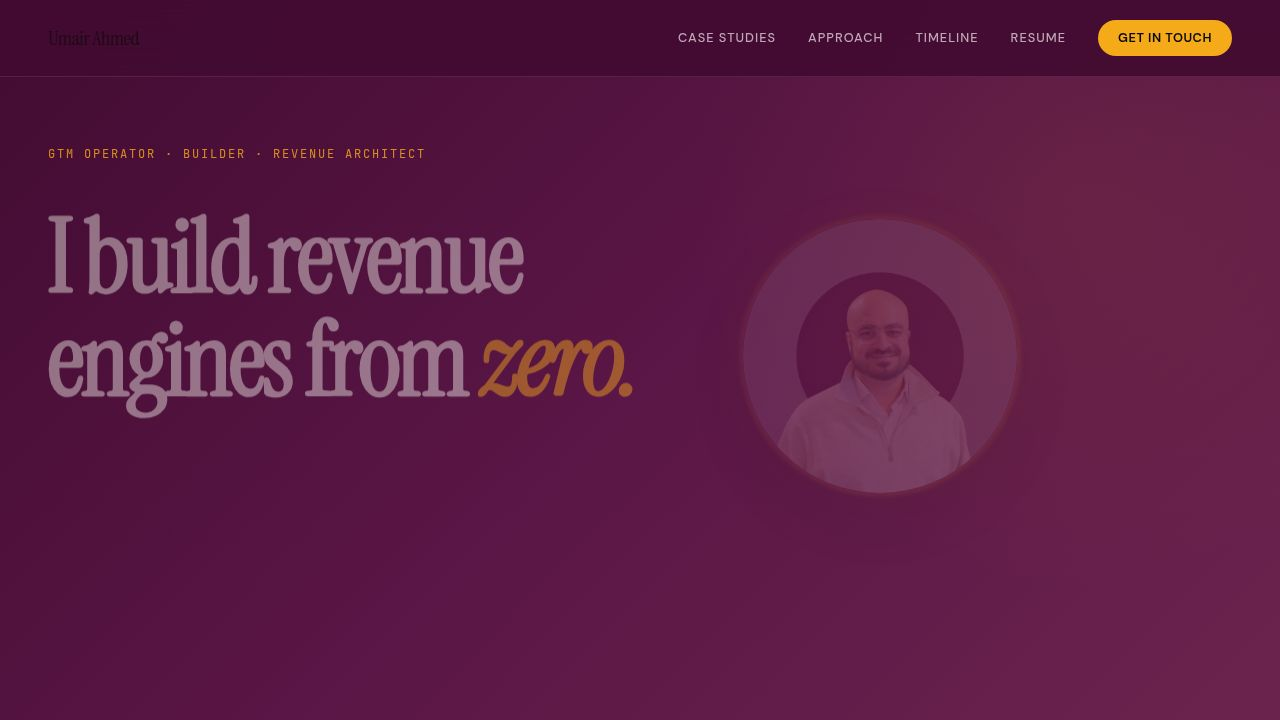
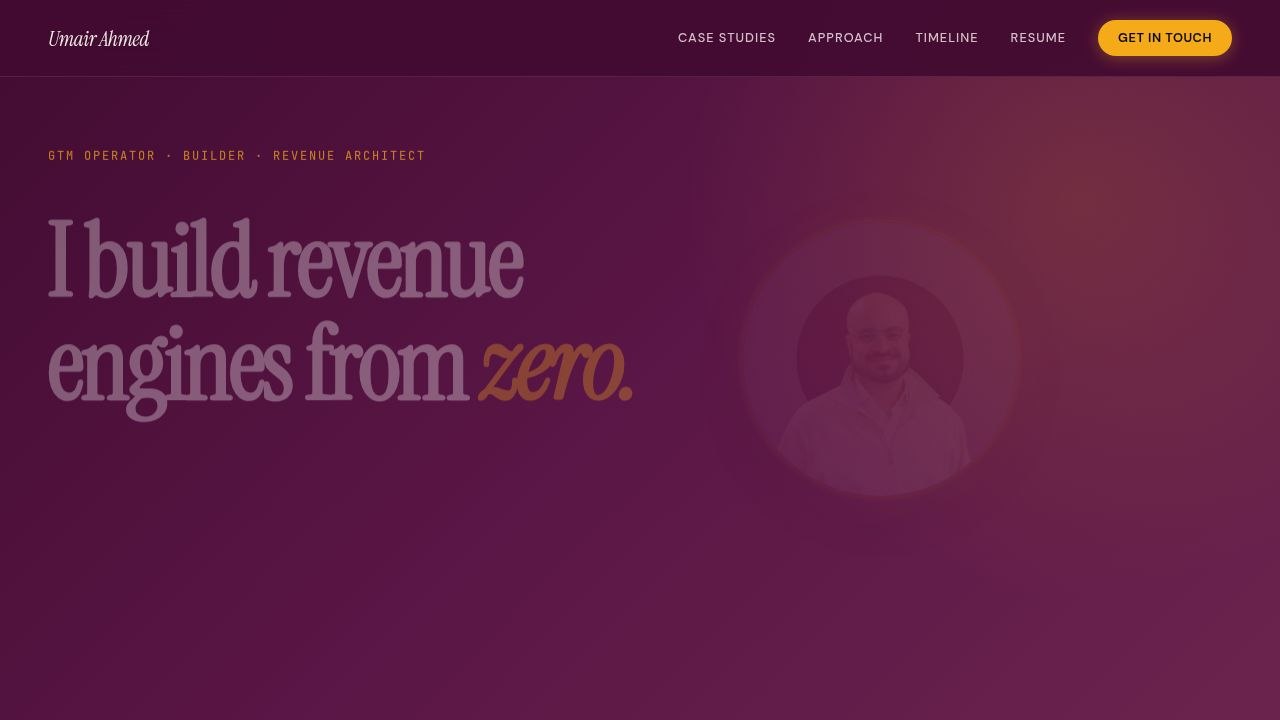
Improve site performance and mobile responsiveness
Remove ticker mask gradient and apply comprehensive mobile optimizations including disabling backdrop blur, stacking CTA buttons, and disabling non-essential animations on mobile devices.

Replit-Commit-Author: Agent
Replit-Commit-Session-Id: 413b3c53-8b6e-4751-8113-ce51a52d3014
Replit-Commit-Checkpoint-Type: full_checkpoint
Replit-Commit-Event-Id: 1ffee622-6d11-4d83-8122-74ff6a7e8b43
Replit-Commit-Screenshot-Url: https://storage.googleapis.com/screenshot-production-us-central1/e7b1bbfc-dcb5-4279-897a-78fe948ba7de/413b3c53-8b6e-4751-8113-ce51a52d3014/8EkYujE
Replit-Helium-Checkpoint-Created: true

diff --git a/artifacts/portfolio/src/pages/Portfolio.tsx b/artifacts/portfolio/src/pages/Portfolio.tsx
@@ -945,7 +945,7 @@ export default function Portfolio() {
 
         .photo-glow { animation: glowPulse 3.5s ease-in-out infinite; }
 
-        .ticker-wrap { -webkit-mask-image: linear-gradient(to right, transparent, black 100px, black calc(100% - 100px), transparent); mask-image: linear-gradient(to right, transparent, black 100px, black calc(100% - 100px), transparent); }
+        .ticker-inner { will-change: transform; }
 
         .case-card { transition: transform 0.35s ease, box-shadow 0.35s ease !important; }
         .case-card:hover { transform: translateY(-4px) !important; box-shadow: 0 16px 48px rgba(66,11,49,0.12), 0 0 30px rgba(245,170,26,0.06) !important; }
@@ -968,37 +968,58 @@ export default function Portfolio() {
         .gallery-item:hover { transform: scale(1.02); border-color: rgba(66,11,49,0.20) !important; box-shadow: 0 8px 32px rgba(66,11,49,0.10); }
         .pdf-card:hover { border-color: rgba(245,170,26,0.40) !important; background: rgba(245,170,26,0.04) !important; }
 
+        button, a { touch-action: manipulation; }
         a:hover { opacity: 0.85; }
 
+        @media (hover: none) {
+          .case-card:hover { transform: none !important; box-shadow: none !important; }
+          .quote-card:hover { transform: none !important; border-color: rgba(255,200,230,0.22) !important; box-shadow: none !important; }
+          .comp-card:hover { transform: none !important; }
+          .gallery-item:hover { transform: none !important; box-shadow: none !important; }
+          .pdf-card:hover { border-color: rgba(66,11,49,0.10) !important; background: #FFFFFF !important; }
+          a:hover { opacity: 1; }
+        }
+
+        @media (prefers-reduced-motion: reduce) {
+          *, *::before, *::after { animation-duration: 0.001ms !important; transition-duration: 0.001ms !important; }
+          .photo-glow { animation: none !important; box-shadow: 0 0 40px rgba(245,170,26,0.30) !important; }
+          .cta-btn::after { animation: none !important; }
+        }
+
         @media (max-width: 768px) {
-          /* Nav */
+          /* Nav: solid bg instead of blur (performance) */
           .nav-links-wrap { display: none !important; }
-          .nav-wrap { padding-left: 20px !important; padding-right: 20px !important; }
+          .nav-wrap { padding-left: 20px !important; padding-right: 20px !important; backdrop-filter: none !important; -webkit-backdrop-filter: none !important; background: rgba(42,5,29,0.98) !important; }
           .nav-cta-mobile { display: flex !important; }
 
           /* Hero */
-          .hero-pad { padding: 96px 20px 56px !important; }
-          .hero-columns { flex-direction: column-reverse !important; align-items: center !important; gap: 28px !important; }
-          .hero-photo-wrap { width: 150px !important; height: 150px !important; }
-          .hero-photo-wrap > div { width: 150px !important; height: 150px !important; }
-          .hero-tagline { font-size: 0.6rem !important; letter-spacing: 0.06em !important; margin-bottom: 16px !important; }
-          .hero-subtitle { font-size: 1rem !important; margin-top: 20px !important; }
-          .hero-stats-wrap { flex-direction: column !important; gap: 0 !important; margin-top: 40px !important; }
-          .hero-stats-wrap > div { border-right: none !important; padding-right: 0 !important; padding: 16px 0 !important; border-bottom: 1px solid rgba(255,200,230,0.10) !important; }
+          .hero-pad { padding: 100px 20px 60px !important; }
+          .hero-columns { flex-direction: column-reverse !important; align-items: center !important; gap: 24px !important; }
+          .hero-photo-wrap { width: 140px !important; height: 140px !important; }
+          .hero-photo-wrap > div { width: 140px !important; height: 140px !important; }
+          .photo-glow { animation: none !important; box-shadow: 0 0 30px rgba(245,170,26,0.25) !important; }
+          .hero-tagline { font-size: 0.6rem !important; letter-spacing: 0.06em !important; margin-bottom: 12px !important; }
+          .hero-subtitle { font-size: 0.95rem !important; margin-top: 16px !important; }
+          .hero-stats-wrap { flex-direction: column !important; gap: 0 !important; margin-top: 36px !important; }
+          .hero-stats-wrap > div { border-right: none !important; padding-right: 0 !important; padding: 14px 0 !important; border-bottom: 1px solid rgba(255,200,230,0.10) !important; }
           .hero-stats-wrap > div:last-child { border-bottom: none !important; }
-          .stat-number { font-size: 2.2rem !important; }
+          .stat-number { font-size: 2rem !important; }
 
           /* Sections */
-          .section-pad { padding: 72px 20px !important; }
-          .cta-pad { padding: 80px 20px !important; }
+          .section-pad { padding: 64px 20px !important; }
+          .cta-pad { padding: 72px 20px !important; }
           .footer-pad { padding: 28px 20px !important; flex-direction: column !important; align-items: flex-start !important; gap: 8px !important; }
           .divider-pad { margin: 0 20px !important; }
 
+          /* CTA buttons: stack full-width */
+          .cta-buttons-wrap { flex-direction: column !important; align-items: stretch !important; gap: 12px !important; }
+          .cta-buttons-wrap a { text-align: center !important; display: block !important; }
+
           /* Cards */
           .cases-grid-wrap { grid-template-columns: 1fr !important; }
-          .case-card-pad { padding: 24px !important; }
+          .case-card-pad { padding: 24px 20px !important; }
           .expanded-pad { padding: 24px 20px 32px !important; }
-          .section-label-pad { margin-top: 32px !important; }
+          .section-label-pad { margin-top: 28px !important; }
 
           /* Quotes */
           .quotes-grid-wrap { grid-template-columns: 1fr !important; }
@@ -1015,7 +1036,12 @@ export default function Portfolio() {
 
           /* Timeline */
           .timeline-content { padding-left: 20px !important; }
+
+          /* Disable heavy animations */
+          .cta-btn::after { display: none !important; }
+          .ticker-inner { animation-duration: 60s !important; }
         }
+
         @media (max-width: 1024px) {
           .cases-grid-wrap { grid-template-columns: 1fr !important; }
           .quotes-grid-wrap { grid-template-columns: 1fr !important; }
@@ -1272,7 +1298,7 @@ export default function Portfolio() {
           background: "#360928",
         }}
       >
-        <div style={{ display: "flex", animation: "scroll 30s linear infinite", width: "max-content" }}>
+        <div className="ticker-inner" style={{ display: "flex", animation: "scroll 30s linear infinite", width: "max-content" }}>
           {[
             "0-to-1 GTM Build", "Pipeline Architecture", "Outbound Engine Design", "Channel & Partner GTM",
             "Enterprise Sales Cycles", "Revenue Forecasting", "ICP Discovery", "Pricing & Packaging",
@@ -1660,7 +1686,7 @@ export default function Portfolio() {
           </p>
         </Reveal>
         <Reveal>
-          <div style={{ display: "flex", gap: 16, justifyContent: "center", flexWrap: "wrap" }}>
+          <div className="cta-buttons-wrap" style={{ display: "flex", gap: 16, justifyContent: "center", flexWrap: "wrap" }}>
             <a
               href="mailto:umairadilahmed@gmail.com"
               style={{
